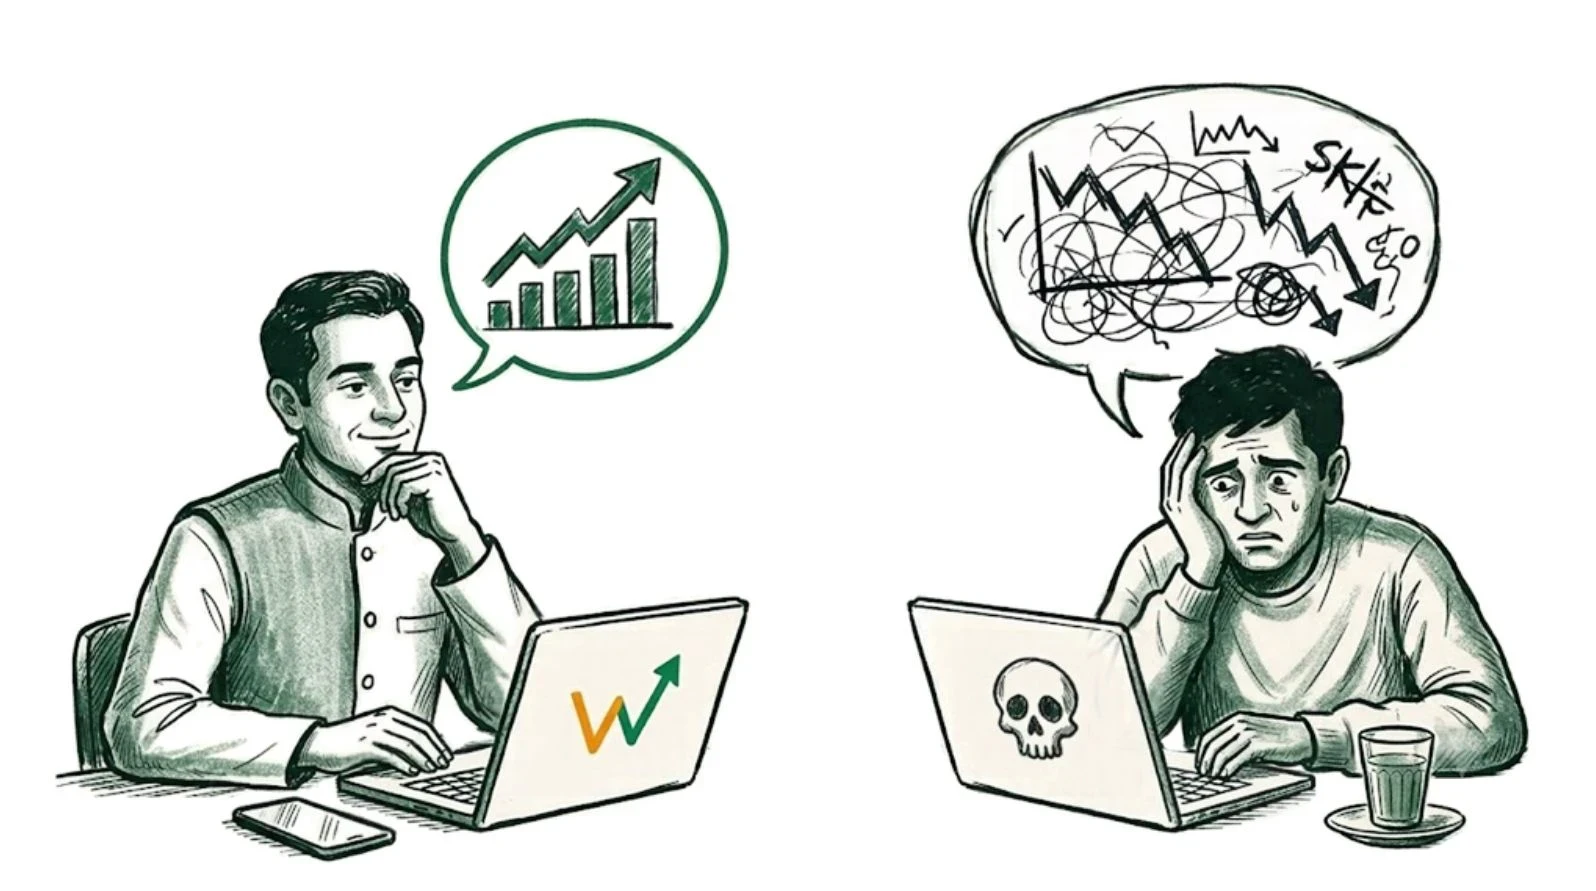
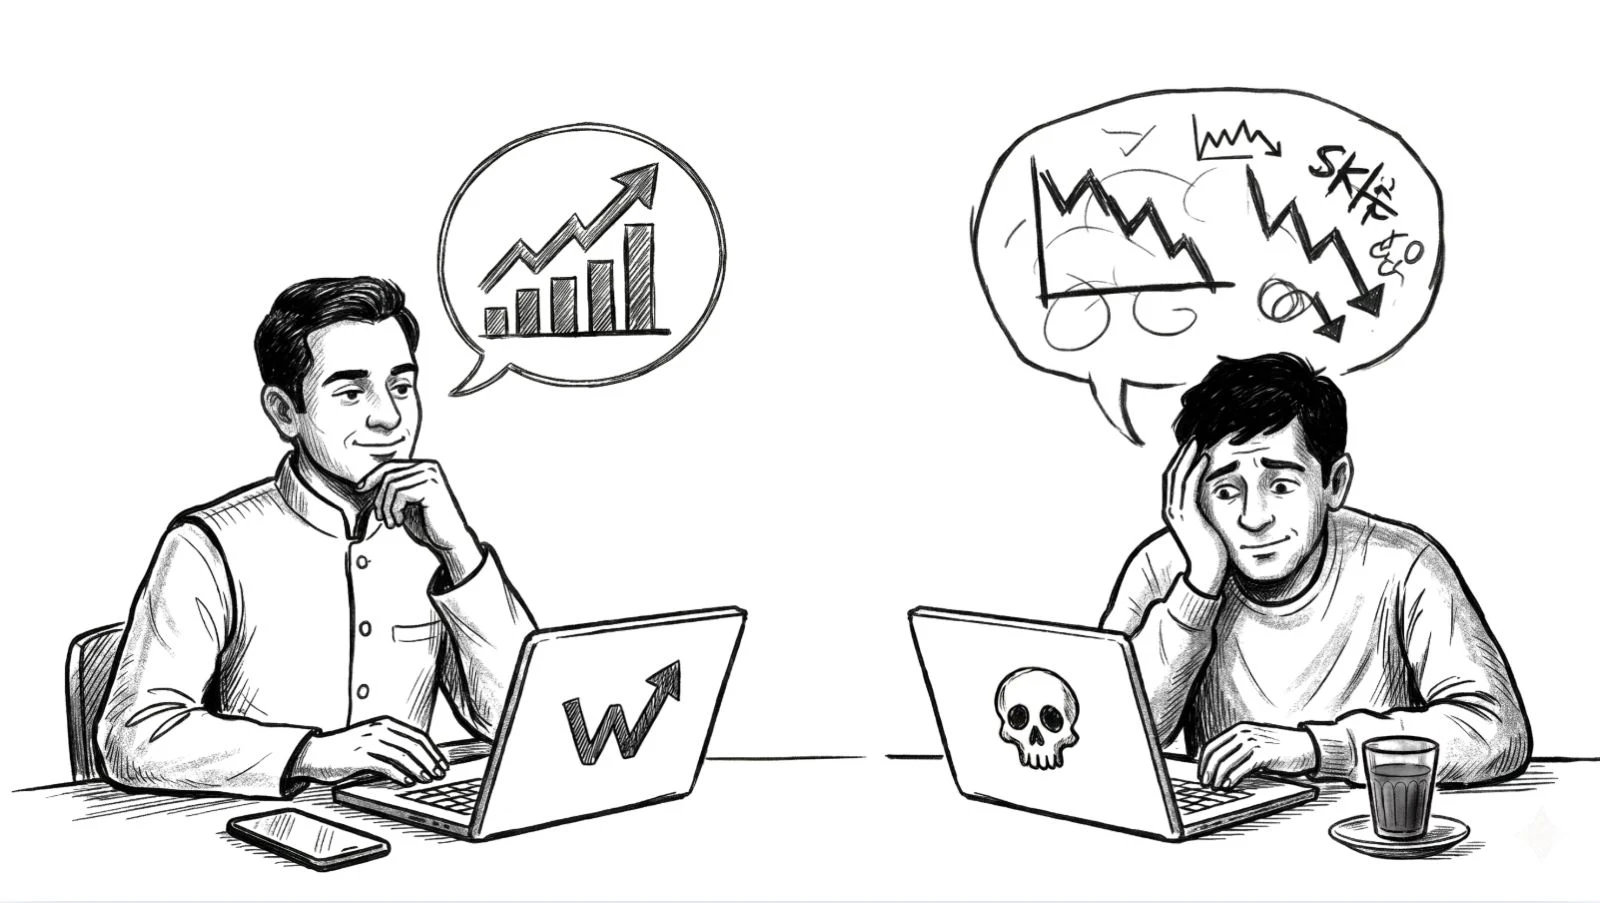
Hero and Talk to an expert: new sketch illustrations
- Hero uses the investor-comparison sketch.
- Talk to an expert shows the adviser-and-client sketch on a plain card
  background, with alt text.

diff --git a/src/components/sections/book-call/book-call.tsx b/src/components/sections/book-call/book-call.tsx
@@ -37,11 +37,11 @@ export function BookCall({
             </h2>
             {data.description && <p className="text-ink-soft mt-4 max-w-md text-lg leading-relaxed">{data.description}</p>}
             {/* Fills the rest of the column so both columns end together. */}
-            <div className="bg-mint/40 relative mt-8 hidden min-h-64 flex-1 overflow-hidden rounded-2xl sm:block">
+            <div className="bg-card relative mt-8 hidden min-h-64 flex-1 overflow-hidden rounded-2xl sm:block">
               <CmsImage
                 media={data.illustration}
-                fallbackSrc="/placeholders/book-call.svg"
-                fallbackAlt=""
+                fallbackSrc="/brand/book-call.webp"
+                fallbackAlt="An adviser explaining a plan to a client over tea"
                 fill
                 sizes="(min-width: 1024px) 480px, 90vw"
                 className="object-contain p-4"

diff --git a/src/components/sections/hero.tsx b/src/components/sections/hero.tsx
@@ -30,8 +30,8 @@ export function Hero({ data }: { data: HomePage['hero'] }) {
           media={data.image}
           fallbackSrc="/brand/hero-sketch.webp"
           fallbackAlt="A calm, confident investor beside a confused one, both at their laptops"
-          width={1596}
-          height={891}
+          width={1600}
+          height={903}
           priority
           sizes="(min-width: 1024px) 864px, 100vw"
           className="mt-6 h-auto w-full max-w-[min(54rem,calc((100svh-var(--header-h)-21rem)*1.79))] sm:mt-8"
